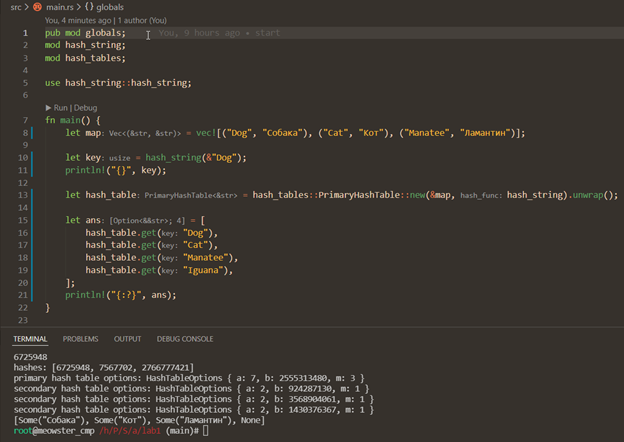
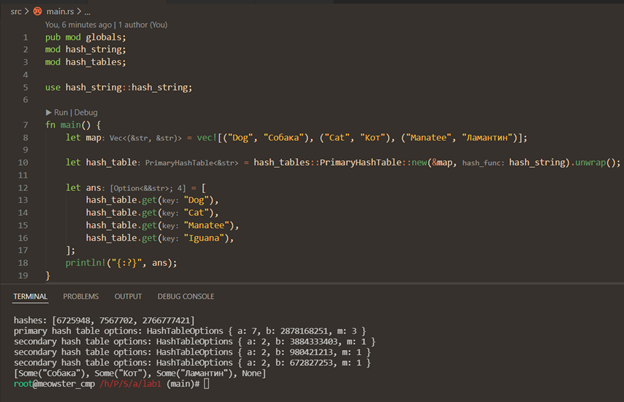
remove unused

Changed region(s): [[0.0, 0.0, 1.0, 0.9851]]

diff --git a/src/main.rs b/src/main.rs
@@ -7,9 +7,6 @@ use hash_string::hash_string;
 fn main() {
     let map = vec![("Dog", "Собака"), ("Cat", "Кот"), ("Manatee", "Ламантин")];
 
-    let key = hash_string(&"Dog");
-    println!("{}", key);
-
     let hash_table = hash_tables::PrimaryHashTable::new(&map, hash_string).unwrap();
 
     let ans = [
